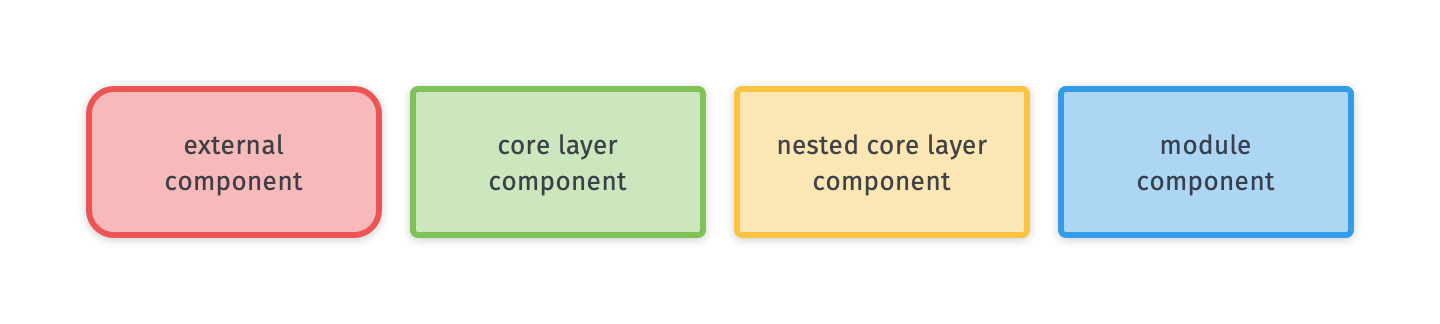
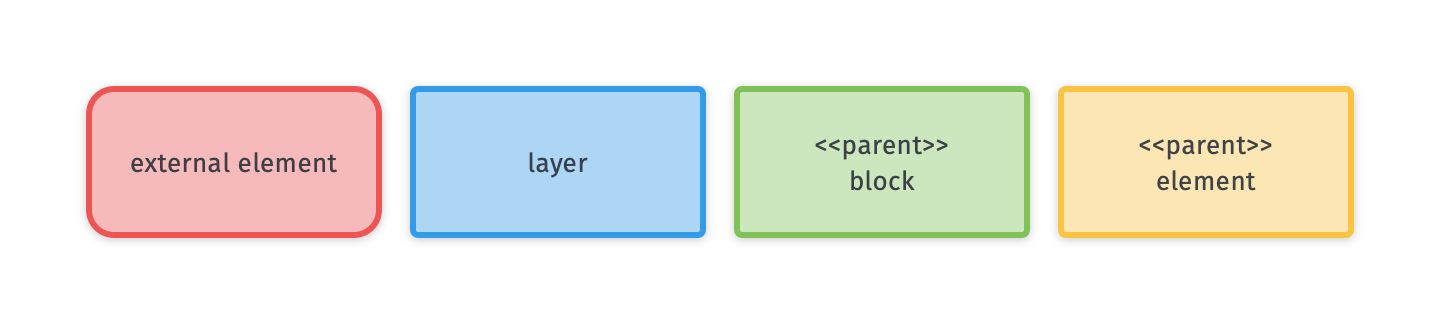
updated legends and added component architecture

Changed region(s): [[0.2812, 0.2469, 0.9375, 0.7407], [0.0938, 0.4321, 0.25, 0.5864]]

diff --git a/README.md b/README.md
@@ -11,10 +11,10 @@ The goal of this architecture is to enable front-end engineers to create large s
 - **Consistency** in user experience, but also for the engineers working on the application.
 - **Resilience**, to ensure a stable user experience, by applying safe-guards in the heart of the application.
 - Update user interfaces **reactively** based on interactions and changes in the state.
-- **Scalability**, to deal with new features, external sources and heavy background tasks.
+- **Scalability**, by creating reusable components to deal with new features, external sources and heavy background tasks.
 - **Maintainability** forced combining the scalability and consistency principles with concepts like [separation of concerns](https://en.wikipedia.org/wiki/Separation_of_concerns), and modularity in the user interface.
 
-In the remainder of this document, several diagrams are displayed. The meaning of the different types of blocks in these diagrams are specified in the legend, below.
+The architecture goes three levels deeps. The diagrams in the remainder of this document visualize these levels and how they interact with other levels. The meaning of the different types of blocks in these diagrams are specified in the legend, below.
 
 ![](images/architecture-legend.png)
 
@@ -30,7 +30,7 @@ The main idea behind the reference architecture is to implement [domain driven d
 
 ## Application core
 
-The core layer centralizes critical components, as visualized below. This centralization contributes to the maintainability of the application. Some components use a 'mediator' to allow for a `n` number of child components. The components below can be present in the core layer.
+The core layer centralizes critical *blocks*, as visualized below. This centralization contributes to the maintainability of the application. The books below can be present in the core layer.
 
 - An application **store** that holds application critical data. This data directly impacts how the application behaves for users.
 - An **gateway** that is responsible for all outgoing communication. This can be as single API client, or a mediator with routing requests towards multiple external sources.
@@ -39,7 +39,7 @@ The core layer centralizes critical components, as visualized below. This centra
 
 ![](images/architecture-core.png)
 
-Besides these components, several other components can live in the core layer. Examples are the browser **history** stack, and an **error tracker**.
+Besides these blocks, several other blocks can live in the core layer. Examples are the browser **history** stack, and an **error tracker**.
 
 ### Application store
 
@@ -49,23 +49,23 @@ An application store, or data storage, is used for global state management, and 
 - **Event driven** to ensure that the store at determines how the data should change, based on the event.
 - **Immutable** to avoid the data in the store being mutated from outside of the store, increasing the resilience of the application.
 
-To comply with the principles of this architecture, an **access layer** (or [**proxy**](https://en.wikipedia.org/wiki/Proxy_pattern)) that decouples the state interface, is used. This allows for higher scalability and maintainability. Store events (`get`, `set`, `update` or `remove`) can be defined and invoked on a module-level. The access layer handles these events and applies them on the **data storage**.
+To comply with the principles of this architecture, an **access layer** (or [**proxy**](https://en.wikipedia.org/wiki/Proxy_pattern)) *element* that decouples the state interface, is used. This allows for higher scalability and maintainability. Store events (`get`, `set`, `update` or `remove`) can be defined and invoked on a module-level. The access layer handles these events and applies them on the **data storage**.
 
 ![](images/architecture-core-store.png)
 
 > **NOTE**: many front-end applications use global state managements for all data. Many existing global state management packages like [Redux](https://redux.js.org/style-guide/style-guide) have a coupled state interface. Although state events can be defined elsewhere, they have to be configured in the store nonetheless.
 
-Whenever a component triggers an event, the data is changed. The access layer sends an event (including the changed data) via the pub/sub (except in case of a `get` event). Other components can subscribe to these events and act whenever the data changes. With normalized data, sending the correct events for related data is made possible, providing a more resilient experience.
+Whenever an element triggers an event, the data is changed. The access layer sends an event (including the changed data) via the pub/sub (except in case of a `get` event). Other elements can subscribe to these events and act whenever the data changes. With normalized data, sending the correct events for related data is made possible, providing a more resilient experience.
 
 ### API gateway
 
-> **NOTE**: in case of only one external source, a single API client can replace the gateway. Many open source API clients support most components described in this section (e.g. [Apollo Client](https://www.apollographql.com/client/)).
+> **NOTE**: in case of only one external source, a single API client can replace the gateway. Many open source API clients support most elements described in this section (e.g. [Apollo Client](https://www.apollographql.com/client/)).
 
-The API gateway enables the application to connect to multiple external sources (e.g. REST and GraphQL) with dedicated API **clients** in a consistent way. It extracts critical components and let a [**mediator**](https://en.wikipedia.org/wiki/Mediator_pattern) share them with different API clients.
+The API gateway enables the application to connect to multiple external sources (e.g. REST and GraphQL) with dedicated API **clients** in a consistent way. It extracts critical elements to one place, and let a [**mediator**](https://en.wikipedia.org/wiki/Mediator_pattern) share them with different API clients.
 
 ![](images/architecture-core-gateway.png)
 
-Each request, regardless of the related external source, goes through the mediator. The mediator sends each request though three components before it hits the API client:
+Each request, regardless of the related external source, goes through the mediator. The mediator sends each request though three *elements* before it hits the API client:
 
 - The gateway **cache** is a proxy that stores all responses for various request definitions, for a certain period of time ('state-while-revalidate' pattern).
 - A [**circuit breaker**](https://en.wikipedia.org/wiki/Circuit_breaker_design_pattern) maintains the state of the external source. If a server error is received, outgoing requests are bounced to prevent reoccurring failure.
@@ -73,9 +73,9 @@ Each request, regardless of the related external source, goes through the mediat
 
 After the middleware, the correct `client` is chosen by the mediator. After a response is received, the mediator sends it back to the request initiator and the cache. In case of a `cache-network` strategy, the mediator first gives back a value from the cache to the initiator, before the request is send through the middleware and client. After the response is received, the cache is updated and the initiator receives the updated value.
 
-> **NOTE**: in case your chosen UI framework does not allow of UI updates around asynchronous calls, you can let the component subscribe to the pub/sub and have the mediator send the response via the pub/sub. you can utilize the pub/sub.
+> **NOTE**: in case your chosen UI framework does not allow of UI updates around asynchronous calls, you can let the element subscribe to the pub/sub and have the mediator send the response via the pub/sub. you can utilize the pub/sub.
 
-To ensure resilience, each request should follow the same [statechart](https://statecharts.github.io/), as shown below. When all requests, regardless of their source, follows the same pattern, the API client and/or UI can consistently handle them. This particular statechart allows requests to be aborted (e.g. the requestor is removed from the DOM) or restarted (after failure). 
+To ensure resilience, each request should follow the same [statechart](https://statecharts.github.io/), as shown below. When all requests, regardless of their source, follows the same pattern, the API client and/or UI can consistently handle them. Each request starts in _idle_. When a request is started, it moves into the _loading_ state. From this state, four events can happen: success, abort, error or start. In case of the latter, the previous request is aborted and a new request is started.
 
 ![](images/architecture-core-gateway-statechart.png)
 
@@ -87,12 +87,19 @@ Domain driven development
 
 ![](images/architecture-module.png)
 
-### Types of modules
+> Types of modules
 
-### Example
-
-## Components
+### User interface components
+User interface components, or UI components, are the most important parts of the application, and the place you will spend the most time in. It is where the user actually sees and interacts with the application. It consists of five different elements that interact with each other. 
 
 ![](images/architecture-component.png)
+
+The API is how a component interacts with its parent, another UI component. The parent component can provide values, configuration and callbacks through the API. The values and configuration are, combined with the component state, used to render the UI. 
+
+The UI is the part the user sees and interacts with. On interaction, an action is invoked. This action can be defined in the component (single purpose) or in the module (multi purpose). The action can update the component state or invoke a callback received through the API. 
+
+A component also has an observer. The observer listens to the values from the API and the state for changes. When a change happens, it invokes a rerender of the UI, and optionally invokes an action. 
+
+> **NOTE**: the observer of a component is often handled by a framework like React or Vue
 
 ## CSS & user interface styling

diff --git a/CHANGELOG.md b/CHANGELOG.md
@@ -3,6 +3,9 @@
 ## Version 0.3.0
 
 - Added the request statechart, including explanation, in the API gateway section;
+- Updated legend to reflect the diagrams a bit better;
+- Added component architecture;
+- Added module architecture.
 
 ## Version 0.2.1
 
